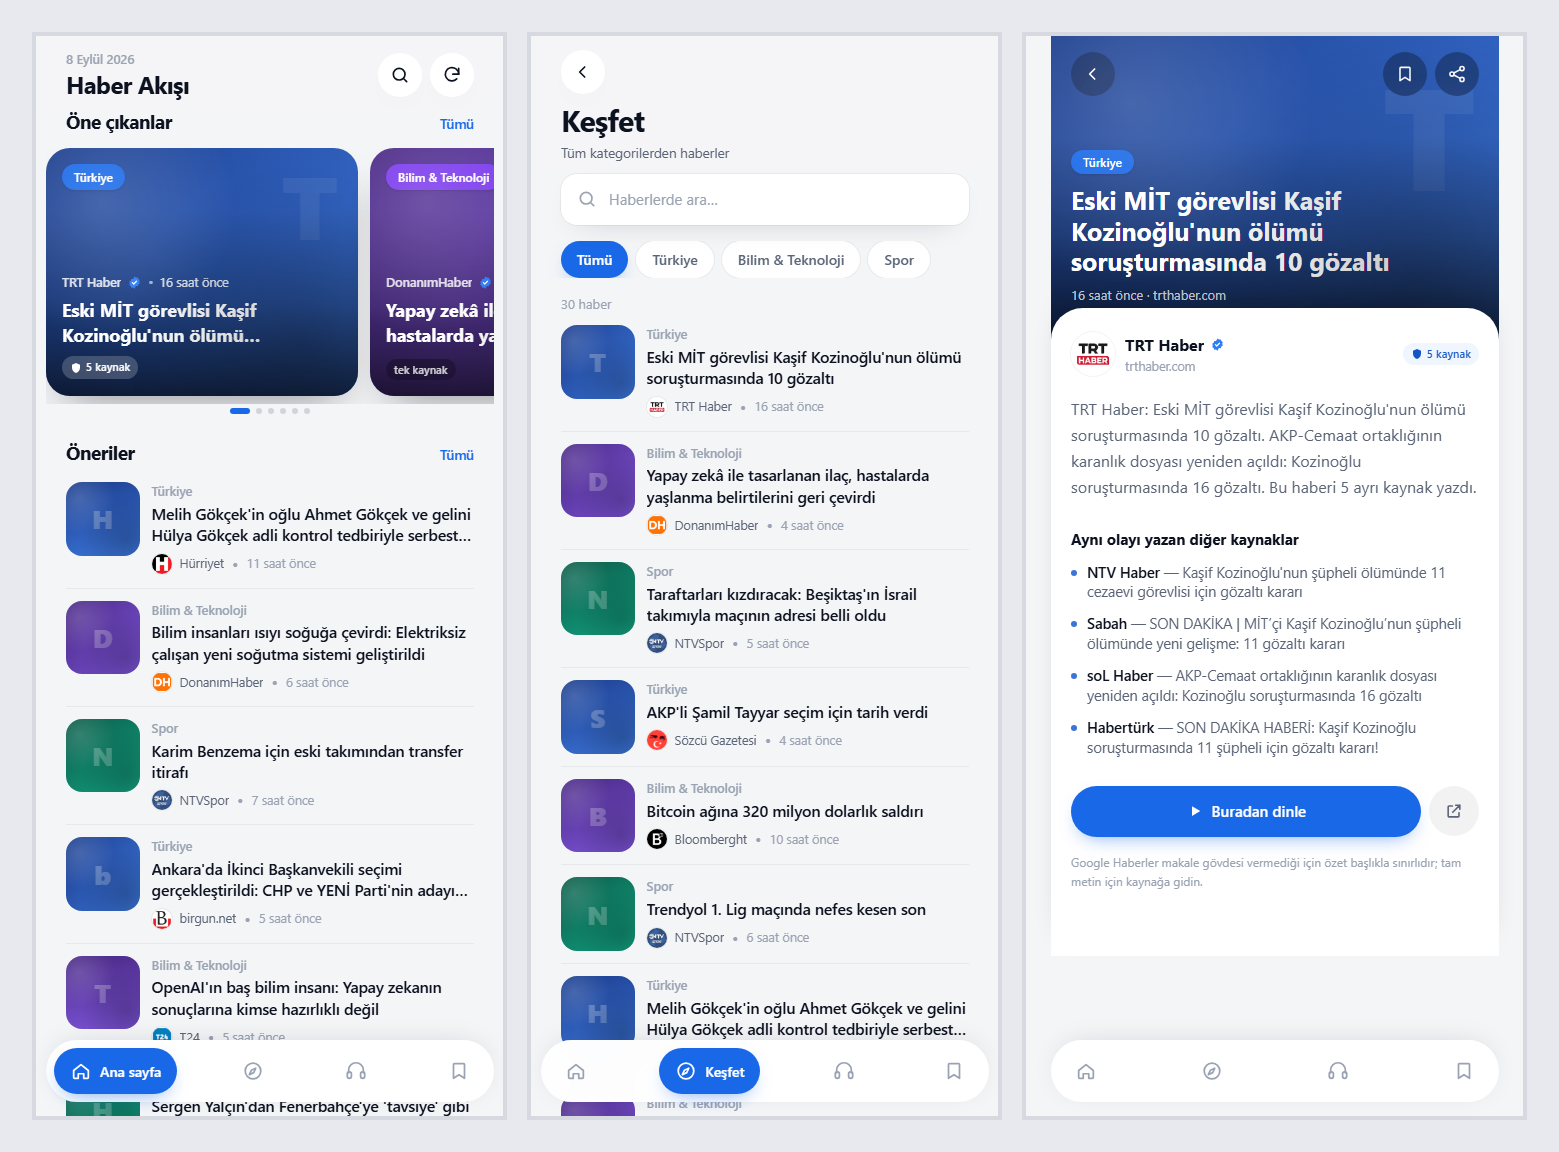
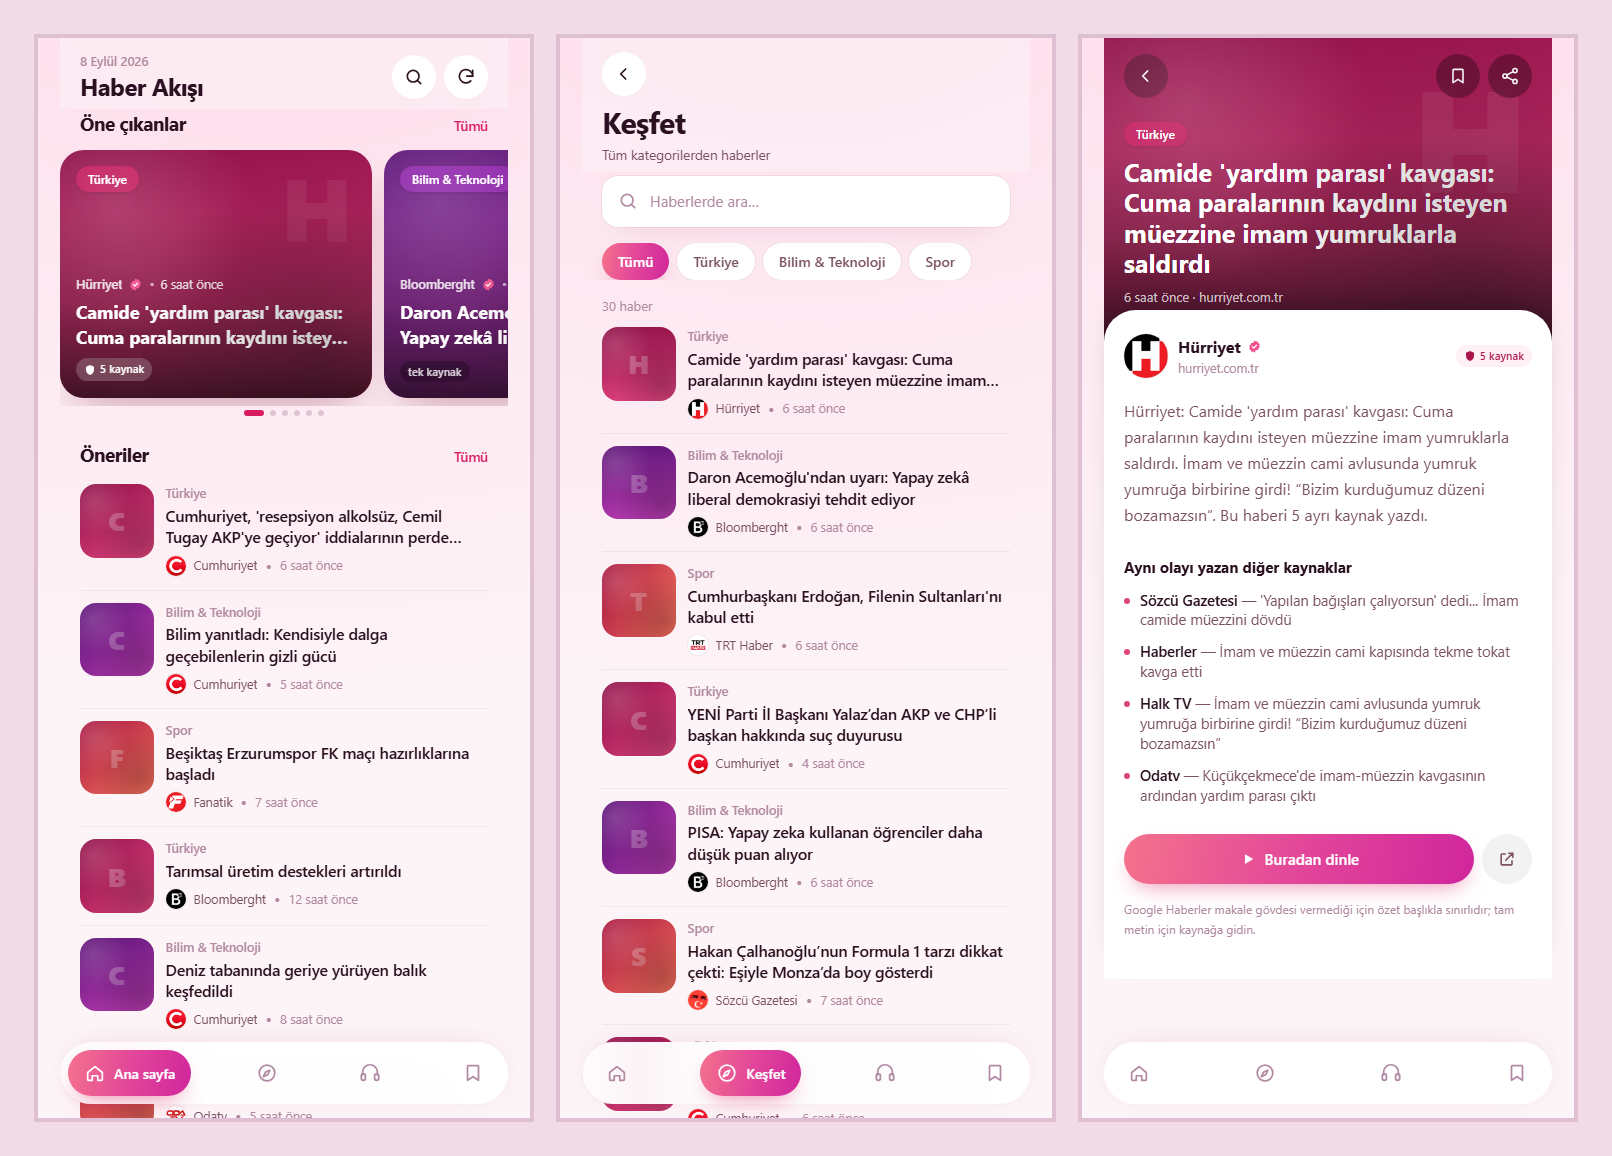
Tema: magenta/pembe palete geçiş
Zemin yumuşak pembe gradient, kartlar beyaz; dolu düğmeler, aktif sekme ve
seçili kategori chip'i pembeden fuşyaya geçen tek bir gradient (.grad)
kullanıyor. Nötr griler pembeye çalan sıcak tonlarla, gölgeler magenta
tabanlı değerlerle değiştirildi.

Kategori renkleri palet içinde ayrıştırıldı: Türkiye koyu magenta,
Bilim & Teknoloji mor-fuşya, Spor mercan. Böylece tema tek renk ailesinde
kalırken kartlar hâlâ kategoriye göre okunabiliyor.

diff --git a/site/index.html b/site/index.html
@@ -5,7 +5,7 @@
 <meta name="viewport" content="width=device-width, initial-scale=1, viewport-fit=cover">
 <title>Haber Akışı</title>
 <meta name="description" content="Google Haberler'den günlük Türkçe haber bülteni — okuyun ya da hands-free dinleyin">
-<meta name="theme-color" content="#f4f5f7">
+<meta name="theme-color" content="#fdeef4">
 <meta name="apple-mobile-web-app-capable" content="yes">
 <meta name="apple-mobile-web-app-title" content="Haber Akışı">
 <link rel="manifest" href="manifest.webmanifest">
@@ -17,18 +17,19 @@ tailwind.config = {
   theme: {
     extend: {
       colors: {
-        ink:   { DEFAULT: "#0d1220", soft: "#5b6577", faint: "#9aa3b2" },
-        brand: { 50:"#eff6ff", 100:"#dbeafe", 500:"#2f7df6", 600:"#1868e8", 700:"#1355c4" },
-        shell: "#f4f5f7"
+        /* Sıcak nötrler: gri yerine pembeye çalan koyu tonlar */
+        ink:   { DEFAULT: "#2a1020", soft: "#7b5164", faint: "#b189a0" },
+        brand: { 50:"#fff0f6", 100:"#ffe0ec", 200:"#ffc4dc", 500:"#f0508f", 600:"#d81b60", 700:"#ab134b" },
+        shell: "#fdeef4"
       },
       fontFamily: {
         sans: ["Inter", "system-ui", "-apple-system", "Segoe UI", "Roboto", "sans-serif"]
       },
       boxShadow: {
-        hero: "0 22px 44px -20px rgba(13,18,32,.45)",
-        card: "0 10px 30px -18px rgba(13,18,32,.28)",
-        nav:  "0 -4px 30px -12px rgba(13,18,32,.18)",
-        pill: "0 8px 20px -10px rgba(24,104,232,.65)"
+        hero: "0 22px 44px -20px rgba(120,18,60,.42)",
+        card: "0 10px 30px -18px rgba(120,18,60,.24)",
+        nav:  "0 -4px 30px -12px rgba(120,18,60,.16)",
+        pill: "0 10px 22px -10px rgba(216,27,96,.55)"
       },
       borderRadius: { xl2: "1.5rem", xl3: "2rem" }
     }
@@ -37,13 +38,20 @@ tailwind.config = {
 </script>
 <style>
   html, body { overscroll-behavior-y: none; overflow-x: hidden; }
-  body { background: #f4f5f7; }
+  body {
+    background:
+      radial-gradient(120% 70% at 50% -8%, #ffd9e8 0%, #fde7f0 38%, #fdeef4 72%, #fdf4f7 100%)
+      fixed;
+  }
   * { min-width: 0; }
 
   .no-scrollbar::-webkit-scrollbar { display: none; }
   .no-scrollbar { -ms-overflow-style: none; scrollbar-width: none; }
 
   .snap-x-mandatory { scroll-snap-type: x mandatory; }
+
+  /* Temanın imzası: pembeden fuşyaya geçen dolgu (buton, aktif sekme, chip) */
+  .grad { background-image: linear-gradient(100deg, #f4728c 0%, #e2459a 52%, #d0269c 100%); }
 
   /* Haber görseli yok (RSS vermiyor): kategoriye göre gradient + ince doku */
   .hero-tex::after {
@@ -70,13 +78,13 @@ tailwind.config = {
 <body class="min-h-full font-sans text-ink antialiased">
 
 <div class="mx-auto flex min-h-screen w-full max-w-md flex-col">
-  <header id="topbar" class="sticky top-0 z-40 bg-shell/85 px-5 pb-2 pt-[max(0.9rem,env(safe-area-inset-top))] backdrop-blur-xl"></header>
+  <header id="topbar" class="sticky top-0 z-40 bg-[#fdeef4]/80 px-5 pb-2 pt-[max(0.9rem,env(safe-area-inset-top))] backdrop-blur-xl"></header>
   <main id="view" class="flex-1 px-5 pb-44"></main>
 </div>
 
 <!-- Hands-free mini oynatıcı -->
 <div id="mini" class="pointer-events-none fixed inset-x-0 bottom-[5.6rem] z-40 hidden px-5">
-  <div class="pointer-events-auto mx-auto flex max-w-md items-center gap-3 rounded-xl2 bg-ink px-3 py-2.5 text-white shadow-hero">
+  <div class="pointer-events-auto mx-auto flex max-w-md items-center gap-3 rounded-xl2 bg-gradient-to-r from-[#3d0f24] to-[#6d1440] px-3 py-2.5 text-white shadow-hero">
     <button id="mini-toggle" class="grid h-11 w-11 shrink-0 place-items-center rounded-full bg-white/15 transition active:scale-95" aria-label="Duraklat">
       <svg id="mini-pause" class="h-5 w-5" fill="currentColor" viewBox="0 0 24 24"><path d="M7 5h3.2v14H7zM13.8 5H17v14h-3.2z"/></svg>
       <svg id="mini-play" class="hidden h-5 w-5 translate-x-[1px]" fill="currentColor" viewBox="0 0 24 24"><path d="M8 5.5v13l11-6.5z"/></svg>
@@ -85,7 +93,7 @@ tailwind.config = {
       <p id="mini-title" class="truncate text-[13.5px] font-semibold leading-tight">—</p>
       <p id="mini-sub" class="truncate text-[12px] text-white/60">—</p>
     </div>
-    <div id="mini-eq" class="eq flex shrink-0 items-end gap-[3px] text-brand-500"><span></span><span></span><span></span></div>
+    <div id="mini-eq" class="eq flex shrink-0 items-end gap-[3px] text-brand-200"><span></span><span></span><span></span></div>
     <button id="mini-next" class="grid h-10 w-10 shrink-0 place-items-center rounded-full bg-white/10 transition active:scale-95" aria-label="Sonraki">
       <svg class="h-[18px] w-[18px]" fill="currentColor" viewBox="0 0 24 24"><path d="M6 5.5v13l9-6.5zM16.5 5H19v14h-2.5z"/></svg>
     </button>

diff --git a/site/app.js b/site/app.js
@@ -50,11 +50,11 @@ const state = {
 
 /* Kategori paletleri — hero gradienti ve rozet rengi buradan türer. */
 const PALETTE = {
-  "turkiye":         { from: "#1d3f8f", to: "#3b74d8", chip: "bg-brand-600" },
-  "bilim-teknoloji": { from: "#4b2a86", to: "#7b53d6", chip: "bg-violet-600" },
-  "spor":            { from: "#0c5c4a", to: "#12a07f", chip: "bg-emerald-600" },
+  "turkiye":         { from: "#8f0f47", to: "#e0447f", chip: "bg-[#c2185b]" },
+  "bilim-teknoloji": { from: "#5c1478", to: "#b93bb0", chip: "bg-[#8e24aa]" },
+  "spor":            { from: "#a81742", to: "#f4715c", chip: "bg-[#e0464f]" },
 };
-const FALLBACK_PALETTE = { from: "#2b3547", to: "#5a6b80", chip: "bg-slate-600" };
+const FALLBACK_PALETTE = { from: "#4a2338", to: "#8a5570", chip: "bg-[#7b5164]" };
 
 /* ------------------------------------------------------------- yardımcılar */
 
@@ -295,7 +295,7 @@ function renderHome() {
         ${featured.map(heroCard).join("")}
       </div>
       <div id="dots" class="mt-1 flex justify-center gap-1.5">
-        ${featured.map((_, i) => `<span class="h-1.5 rounded-full transition-all ${i === 0 ? "w-5 bg-brand-600" : "w-1.5 bg-ink-faint/40"}"></span>`).join("")}
+        ${featured.map((_, i) => `<span class="h-1.5 rounded-full transition-all ${i === 0 ? "w-5 bg-[#d81b60]" : "w-1.5 bg-ink-faint/40"}"></span>`).join("")}
       </div>
 
       <div class="mt-6">
@@ -319,7 +319,7 @@ function wireCarousel() {
       const width = card.getBoundingClientRect().width + 12;
       const active = Math.round(carousel.scrollLeft / width);
       [...dots.children].forEach((dot, i) => {
-        dot.className = `h-1.5 rounded-full transition-all ${i === active ? "w-5 bg-brand-600" : "w-1.5 bg-ink-faint/40"}`;
+        dot.className = `h-1.5 rounded-full transition-all ${i === active ? "w-5 bg-[#d81b60]" : "w-1.5 bg-ink-faint/40"}`;
       });
     },
     { passive: true }
@@ -352,7 +352,7 @@ function renderDiscover() {
           .map((c) => {
             const active = c.key === state.segment;
             return `<button data-chip="${c.key}" class="shrink-0 rounded-full px-4 py-2 text-[14px] font-semibold transition active:scale-95 ${
-              active ? "bg-brand-600 text-white shadow-pill" : "bg-white text-ink-soft ring-1 ring-black/5"
+              active ? "grad text-white shadow-pill" : "bg-white text-ink-soft ring-1 ring-black/5"
             }">${escapeHtml(c.title)}</button>`;
           })
           .join("")}
@@ -407,7 +407,7 @@ function renderDetail() {
             <svg class="h-5 w-5" fill="none" stroke="currentColor" stroke-width="2" viewBox="0 0 24 24"><path d="m14 6-6 6 6 6" stroke-linecap="round" stroke-linejoin="round"/></svg>
           </button>
           <div class="flex gap-2">
-            <button data-save class="grid h-11 w-11 place-items-center rounded-full ${saved ? "bg-brand-600" : "bg-black/30"} text-white backdrop-blur transition active:scale-95" aria-label="${saved ? "Kaydedilenlerden çıkar" : "Kaydet"}">
+            <button data-save class="grid h-11 w-11 place-items-center rounded-full ${saved ? "grad" : "bg-black/30"} text-white backdrop-blur transition active:scale-95" aria-label="${saved ? "Kaydedilenlerden çıkar" : "Kaydet"}">
               <svg class="h-5 w-5" fill="${saved ? "currentColor" : "none"}" stroke="currentColor" stroke-width="1.9" viewBox="0 0 24 24">
                 <path d="M7 4h10a1 1 0 0 1 1 1v15l-6-4-6 4V5a1 1 0 0 1 1-1z" stroke-linejoin="round"/>
               </svg>
@@ -462,7 +462,7 @@ function renderDetail() {
         }
 
         <div class="mt-7 flex items-center gap-2">
-          <button data-listen class="inline-flex flex-1 items-center justify-center gap-2 rounded-full bg-brand-600 px-5 py-3.5 text-[15px] font-semibold text-white shadow-pill transition active:scale-[.98]">
+          <button data-listen class="grad inline-flex flex-1 items-center justify-center gap-2 rounded-full px-5 py-3.5 text-[15px] font-semibold text-white shadow-pill transition active:scale-[.98]">
             <svg class="h-[18px] w-[18px]" fill="currentColor" viewBox="0 0 24 24"><path d="M8 5.5v13l11-6.5z"/></svg>
             Buradan dinle
           </button>
@@ -498,7 +498,7 @@ function setNav(view) {
   const active = view === "detail" ? null : view;
   document.querySelectorAll(".nav-btn").forEach((btn) => {
     const on = btn.dataset.nav === active;
-    btn.classList.toggle("bg-brand-600", on);
+    btn.classList.toggle("grad", on);
     btn.classList.toggle("text-white", on);
     btn.classList.toggle("shadow-pill", on);
     btn.classList.toggle("text-ink-faint", !on);
